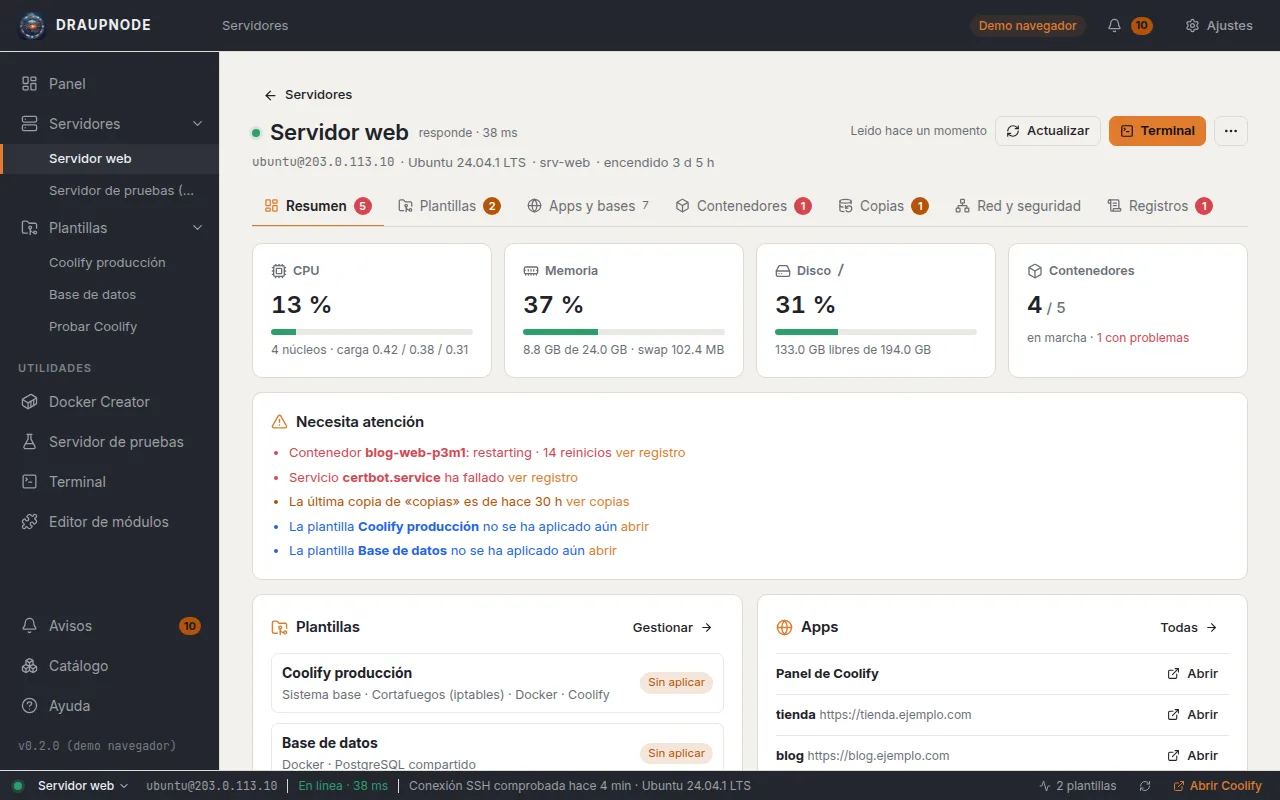
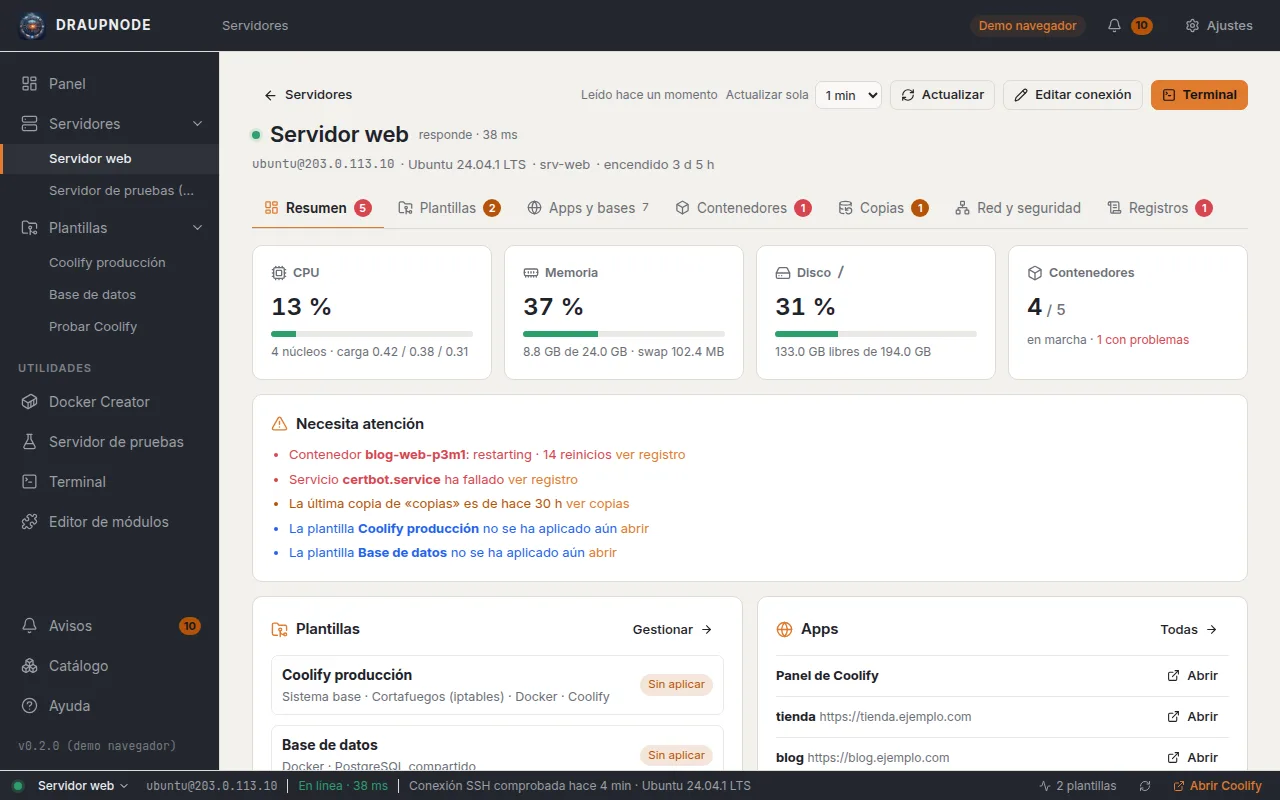
Ficha: Editar conexión y Actualizar sola fuera del menú, en la barra de arriba (0.46.1)

diff --git a/frontend/src/views/ServerDetail.svelte b/frontend/src/views/ServerDetail.svelte
@@ -7,7 +7,7 @@
   import {
     ArrowLeft, RefreshCw, Pencil, SquareTerminal, LoaderCircle, Cpu, MemoryStick, HardDrive, Clock, FolderGit2, Plus, ExternalLink,
     Database, Box, ScrollText, TriangleAlert, Globe, Network, CircleCheck, CircleAlert, KeyRound,
-    LayoutDashboard, DatabaseBackup, Ellipsis, ArrowRight, History,
+    LayoutDashboard, DatabaseBackup, ArrowRight, History,
   } from '@lucide/svelte'
   import Modal from '../components/Modal.svelte'
   import ProjectSecrets from '../components/ProjectSecrets.svelte'
@@ -173,14 +173,23 @@
   // Si la pestaña recordada no existe en este servidor (Copias), al Resumen.
   const current = $derived(tabs.some((t) => t.id === tab) ? tab : 'resumen')
   let onlySick = $state(false)
-  let menu = $state(false)
 </script>
 
-<svelte:window onclick={(e) => { if (menu && !(e.target as HTMLElement).closest('.menu-wrap')) menu = false }} />
 
 {#if server}
   <div class="bar">
     <button class="btn ghost sm" onclick={() => (ui.serverId = null)}><ArrowLeft size={15} /> Servidores</button>
+    <div class="actions">
+      {#if ov}<span class="muted small" title={autoNote}>Leído {timeAgo(new Date(ov.at * 1000).toISOString())}{autoNote ? ' · ' + autoNote : ''}</span>{/if}
+      <label class="auto muted small" title="Volver a leer el servidor solo mientras la ficha está a la vista">Actualizar sola
+        <select class="input" value={auto} onchange={(e) => setAuto(Number((e.currentTarget as HTMLSelectElement).value))}>
+          {#each AUTO_OPTS as [v, l]}<option value={v}>{l}</option>{/each}
+        </select>
+      </label>
+      <button class="btn sm" onclick={load} disabled={loading}>{#if loading}<LoaderCircle size={14} class="spin" />{:else}<RefreshCw size={14} />{/if} Actualizar</button>
+      <button class="btn sm" onclick={() => (editing = true)}><Pencil size={14} /> Editar conexión</button>
+      <button class="btn sm primary" onclick={() => server && openTerminal(server.id)}><SquareTerminal size={14} /> Terminal</button>
+    </div>
   </div>
 
   <header class="top">
@@ -197,24 +206,6 @@
         {#if sys}<span>· {sys.os}</span><span>· {sys.hostname}</span><span>· encendido {uptime(sys.uptime)}</span>{/if}
       </div>
       {#if server.notes}<p class="muted notes">{server.notes}</p>{/if}
-    </div>
-    <div class="actions">
-      {#if ov}<span class="muted small" title={autoNote}>Leído {timeAgo(new Date(ov.at * 1000).toISOString())}{autoNote ? ' · ' + autoNote : ''}</span>{/if}
-      <button class="btn sm" onclick={load} disabled={loading}>{#if loading}<LoaderCircle size={14} class="spin" />{:else}<RefreshCw size={14} />{/if} Actualizar</button>
-      <button class="btn sm primary" onclick={() => server && openTerminal(server.id)}><SquareTerminal size={14} /> Terminal</button>
-      <div class="menu-wrap">
-        <button class="btn sm icon" title="Más opciones" aria-label="Más opciones" onclick={() => (menu = !menu)}><Ellipsis size={16} /></button>
-        {#if menu}
-          <div class="menu card">
-            <button class="mi" onclick={() => { menu = false; editing = true }}><Pencil size={14} /> Editar conexión</button>
-            <label class="mi auto" title="Volver a leer el servidor solo mientras la ficha está a la vista">Actualizar sola
-              <select class="input" value={auto} onchange={(e) => setAuto(Number((e.currentTarget as HTMLSelectElement).value))}>
-                {#each AUTO_OPTS as [v, l]}<option value={v}>{l}</option>{/each}
-              </select>
-            </label>
-          </div>
-        {/if}
-      </div>
     </div>
   </header>
 
@@ -543,7 +534,7 @@
 {/if}
 
 <style>
-  .bar { display: flex; align-items: center; gap: 8px; margin-bottom: 6px; }
+  .bar { display: flex; align-items: center; justify-content: space-between; gap: 8px; flex-wrap: wrap; margin-bottom: 8px; }
   .top { display: flex; justify-content: space-between; align-items: flex-start; gap: 16px; flex-wrap: wrap; margin-bottom: 14px; }
   .ident { display: flex; flex-direction: column; gap: 4px; min-width: 0; }
   .title { display: flex; align-items: center; gap: 10px; flex-wrap: wrap; }
@@ -551,11 +542,7 @@
   .sub { display: flex; gap: 6px; flex-wrap: wrap; font-size: 13px; }
   .notes { margin: 2px 0 0; font-size: 13px; }
   .actions { display: flex; align-items: center; gap: 8px; flex-wrap: wrap; }
-  .menu-wrap { position: relative; }
-  .menu { position: absolute; right: 0; top: calc(100% + 6px); z-index: 20; display: flex; flex-direction: column; gap: 2px; padding: 6px; min-width: 230px; box-shadow: 0 8px 24px rgba(0, 0, 0, .18); }
-  .mi { display: flex; align-items: center; gap: 8px; padding: 7px 8px; border: 0; border-radius: var(--radius-sm); background: none; font: inherit; font-size: 13px; color: var(--text); cursor: pointer; text-align: left; }
-  .mi:hover { background: var(--sidebar-hover); }
-  .auto { justify-content: space-between; }
+  .auto { display: inline-flex; gap: 6px; align-items: center; }
   .auto .input { height: 28px; padding: 0 6px; width: auto; font-size: 12.5px; }
   .small { font-size: 12px; }
   .bad-t { color: var(--danger); }

diff --git a/frontend/src/lib/help.ts b/frontend/src/lib/help.ts
@@ -53,8 +53,8 @@ export const HELP: HelpSection[] = [
     intro: 'Las máquinas que Draupnode va a preparar y cómo conectarse a ellas por SSH.',
     steps: [
       { title: 'Lista', text: 'Cada tarjeta muestra la conexión (usuario@IP), cómo se entra (clave o contraseña), el resultado de la última prueba y los datos del servidor. Pulsa la tarjeta para abrir su ficha.', img: 'servidores' },
-      { title: 'Ficha del servidor', text: 'Es la pieza principal. Arriba, siempre a la vista: si responde ahora, su conexión, el sistema y cuánto lleva encendido, «Actualizar», «Terminal» y «⋯» (Editar conexión y Actualizar sola). Debajo, pestañas; un número en rojo o ámbar indica que hay algo que mirar, y se recuerda la última que abriste. Resumen: CPU, memoria, disco y contenedores, «Necesita atención», sus plantillas, sus apps y la actividad reciente. Plantillas: asociar o crear, sus contraseñas y «Lo que ya hay en este servidor». Apps y bases: direcciones (Draupnode, Coolify, nginx/Caddy) y bases de datos con lo que pesa cada una. Contenedores: uso, estado y registro (con «solo los que fallan»). Copias: cuándo fue la última copia de cada plantilla y sus botones (copia ahora, ver, restaurar, traer al equipo). Red y seguridad: lo que deja pasar el cortafuegos y lo que escucha. Registros: sistema, SSH, servicios caídos y el historial completo.', img: 'servidor' },
-      { title: 'Actualizar sola', text: 'En «⋯» → «Actualizar sola» la ficha se vuelve a leer cada 30 s, 1 min o 5 min mientras la tienes abierta. Si su contraseña no está guardada, lo dice junto a «Leído hace…» y espera a que pulses «Actualizar».' },
+      { title: 'Ficha del servidor', text: 'Es la pieza principal. Arriba, siempre a la vista: si responde ahora, su conexión, el sistema y cuánto lleva encendido, «Actualizar sola», «Actualizar», «Editar conexión» y «Terminal». Debajo, pestañas; un número en rojo o ámbar indica que hay algo que mirar, y se recuerda la última que abriste. Resumen: CPU, memoria, disco y contenedores, «Necesita atención», sus plantillas, sus apps y la actividad reciente. Plantillas: asociar o crear, sus contraseñas y «Lo que ya hay en este servidor». Apps y bases: direcciones (Draupnode, Coolify, nginx/Caddy) y bases de datos con lo que pesa cada una. Contenedores: uso, estado y registro (con «solo los que fallan»). Copias: cuándo fue la última copia de cada plantilla y sus botones (copia ahora, ver, restaurar, traer al equipo). Red y seguridad: lo que deja pasar el cortafuegos y lo que escucha. Registros: sistema, SSH, servicios caídos y el historial completo.', img: 'servidor' },
+      { title: 'Actualizar sola', text: 'Con «Actualizar sola», arriba a la derecha, la ficha se vuelve a leer cada 30 s, 1 min o 5 min mientras la tienes abierta. Si su contraseña no está guardada, lo dice junto a «Leído hace…» y espera a que pulses «Actualizar».' },
       { title: 'La plantilla en un servidor', text: 'Desde la ficha, «Abrir» lleva a la pantalla de siempre: módulos, previsualizar, aplicar, copias… Lo que cambies aquí (añadir un módulo, poner un dominio) es solo de este servidor y se instala al pulsar «Configurar y aplicar». Arriba, en una fila: el servidor, la plantilla y si este servidor tiene algo distinto. «Llevar a la plantilla» pasa lo propio de este servidor a la plantilla (y a los demás servidores que la usan, como «cambios sin aplicar»); «Volver a la plantilla» quita lo propio de este servidor. Ninguno de los dos instala ni desinstala nada. «Editar plantilla» la abre para todos sus servidores. «Desasociar la plantilla del servidor» la quita de Draupnode sin desinstalar nada.', img: 'despliegue' },
       { title: 'Añadir servidor', text: 'Nombre, IP o dominio, puerto (22 normalmente) y usuario. Elige la clave de la lista (salen las de ~/.ssh) o escribe una contraseña. Si la clave tiene contraseña, marca «tiene contraseña» y decide si guardarla.', img: 'servidor-nuevo' },
       { title: 'Probar conexión', text: 'Conecta, comprueba sudo y recoge datos (sistema, memoria, disco). La primera vez pide confirmar la huella del servidor; compárala con la que te da tu proveedor.' },

diff --git a/app.go b/app.go
@@ -21,7 +21,7 @@ import (
 )
 
 // Version de la aplicación.
-const Version = "0.46.0"
+const Version = "0.46.1"
 
 // Prefijos que la interfaz reconoce en los errores para abrir el diálogo
 // de la bóveda (crear o desbloquear) y reintentar.

diff --git a/docs/HISTORIAL.md b/docs/HISTORIAL.md
@@ -668,3 +668,9 @@ al final con el mismo párrafo, Disco descuadrado, barra de arriba con demasiado
   - **Red y seguridad**: cortafuegos, lo que escucha hacia fuera y, nuevo, lo que solo escucha dentro.
   - **Registros**: sistema, SSH, servicios caídos e historial completo.
 - Ayuda de Servidores reescrita; capturas rehechas (las que entran en la ficha pulsan antes «Resumen»).
+
+## 2026-11-22 · 0.46.1 · Botones de la ficha fuera del menú
+
+- Petición del usuario: «Editar conexión» y «Actualizar sola» vuelven a estar a la vista, como antes; quitado el
+  menú «⋯». Todos los botones van en la barra de arriba, junto a «← Servidores» (al lado del nombre no cabían y
+  bajaban a otra línea).
